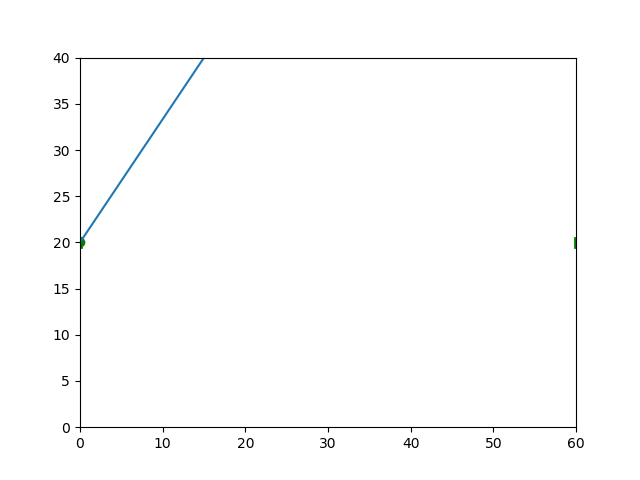
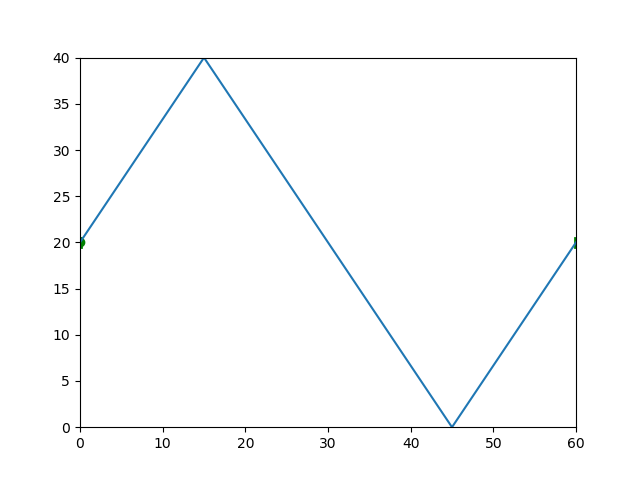
Project 2 finished

diff --git a/fiz2/phproject2.py b/fiz2/phproject2.py
@@ -21,12 +21,13 @@ def tuplify(c, nms, tup):
 
 # PHYSICS
 
+MARGIN = 0.005
 ICE = (60.0, 40.0)
 GOAL_WIDTH = 1.0
 G = 10.0
 NAMESIN = ["start", "mass", "radius", "friction", "velocity"]
 NAMESOUT = ["stop", "time"]
-DATA = pandas.read_csv("fiz2\\input.txt", sep=';', header=None, names=NAMESIN).transpose()
+DATA = pandas.read_csv("input.txt", sep=';', header=None, names=NAMESIN).transpose()
 
 """ Ice Rink to file """
 def drawRink(start=None):
@@ -40,9 +41,10 @@ def drawRink(start=None):
         plt.plot(*start, 'go')
 
 def checkGoal(pos):
-    upper = (ICE[1]+GOAL_WIDTH) / 2
-    lower = (ICE[1]-GOAL_WIDTH) / 2
-    return (pos[0] <= 0 or pos[0] >= ICE[0]) and pos[1] < upper and pos[1] > lower
+    goalmargin = 0.1
+    upper = ((ICE[1]+GOAL_WIDTH) / 2) + goalmargin
+    lower = ((ICE[1]-GOAL_WIDTH) / 2) - goalmargin
+    return (pos[0] <= goalmargin or pos[0] >= ICE[0]-goalmargin) and pos[1] < upper and pos[1] > lower
 
 class LineMovement:
     def __init__(self, start, v, r, f):
@@ -56,46 +58,50 @@ class LineMovement:
         self.VNorm = (v[0]**2.0 + v[1]**2.0)**0.5
         if self.Velocity[0] != 0.0:
             self.Angle = math.atan(self.Velocity[1] / self.Velocity[0])
+            if self.Velocity[0] < 0: # atan needs vector direction fix when Vx < 0
+                self.Angle = math.pi + self.Angle
         else:
             self.Angle = math.pi / 2
-        self.FVector = (self.Friction*G*math.cos(self.Angle), self.Friction*G*math.sin(self.Angle))
+            if self.Velocity[1] < 0:
+                self.Angle = -self.Angle
+        self.FVector = (-self.Friction*G*math.cos(self.Angle), -self.Friction*G*math.sin(self.Angle))
 
     def update(self, t, b):
         self.Begin = self.getPosition(t)
-        self.setVelocity(self.getVelocity(t))
+        new_v = self.getVelocity(t)
         if b == 'l':
-            self.Velocity = (abs(self.Velocity[0]), self.Velocity[1])
+            new_v = (abs(new_v[0]), new_v[1])
         elif b == 'r':
-            self.Velocity = (-abs(self.Velocity[0]), self.Velocity[1])
+            new_v = (-abs(new_v[0]), new_v[1])
         elif b == 't':
-            self.Velocity = (self.Velocity[0], -abs(self.Velocity[1]))
+            new_v = (new_v[0], -abs(new_v[1]))
         elif b == 'b':
-            self.Velocity = (self.Velocity[0], abs(self.Velocity[1]))
+            new_v = (new_v[0], abs(new_v[1]))
+        self.setVelocity(new_v)
 
     def borders(self):
         return {'l':self.Radius, 'r':ICE[0]-self.Radius, 'b':self.Radius, 't':ICE[1]-self.Radius}
 
     def getHitTime(self):
-        def inrange(t):
-            pos = self.getPosition(t)
-            return pos[0] >= 0 and pos[1] >= 0 and pos[0] <= ICE[0] and pos[1] <= ICE[1]
         borders = self.borders()
         x = sympy.Symbol('x', real=True, positive=True)
         result = self.getStopTime()
         bouncewall = None
         for wall in borders:
             axle = 0 if wall in ['l', 'r'] else 1
-            solutions = sympy.solve(self.getPosition(x)[axle] - borders[wall], x)
+            solutions = sympy.solve(self.getPosition(x+10e-14)[axle] - borders[wall], x)
             if len(solutions) > 0:
-                m = min(solutions)
-                if m < result and inrange(float(m)):
-                    result = float(m)
-                    bouncewall = wall
+                m = float(min(solutions))
+                if m < result:
+                    pos = self.getPosition(m)
+                    if pos[0] >= -MARGIN and pos[1] >= -MARGIN and pos[0] <= ICE[0]+MARGIN and pos[1] <= ICE[1]+MARGIN:
+                        result = m
+                        bouncewall = wall
         self.update(result, bouncewall)
         return result
 
     def getVelocity(self, t):
-        return (self.Velocity[0] - t*self.FVector[0], self.Velocity[1] - t*self.FVector[1])
+        return (self.Velocity[0] + t*self.FVector[0], self.Velocity[1] + t*self.FVector[1])
 
     def getStopTime(self):
         return self.VNorm / (self.Friction*G)
@@ -117,21 +123,22 @@ def main(index, fhandle):
     # params
     finish = sim.getStopTime()
     bounces = [column['start']]
+    times = [0.0]
     elapsed = 0.0
     inside = True
     # loop every bounce
     print("Slide duration: {} s".format(finish))
     while elapsed < finish and inside:
-        traveltime = sim.getHitTime()
-        elapsed += traveltime
+        times.append(sim.getHitTime())
+        elapsed += times[-1]
         bounces.append(sim.Begin)
-        if traveltime==0:
+        if times[-1]==0:
             break
         else:
             inside = not checkGoal(bounces[-1])
-    df = pandas.DataFrame(bounces)
+    df = pandas.DataFrame(data={'x':[round(b[0], 2) for b in bounces], 'y':[round(b[1], 2) for b in bounces], 'delta t':[round(t, 3) for t in times]})
     print(df)
-    plt.plot(df[0], df[1])
+    plt.plot(df['x'], df['y'])
     plt.savefig("{}.png".format(index+1))
     if inside:
         fhandle.write('({0:.2f}, {1:.2f}); {2:.2f}; {3}\n'.format(*bounces[-1], finish, '; '.join(["({0:.2f}, {0:.2f})".format(*bounces[x]) for x in range(1, len(bounces)-1)])))
